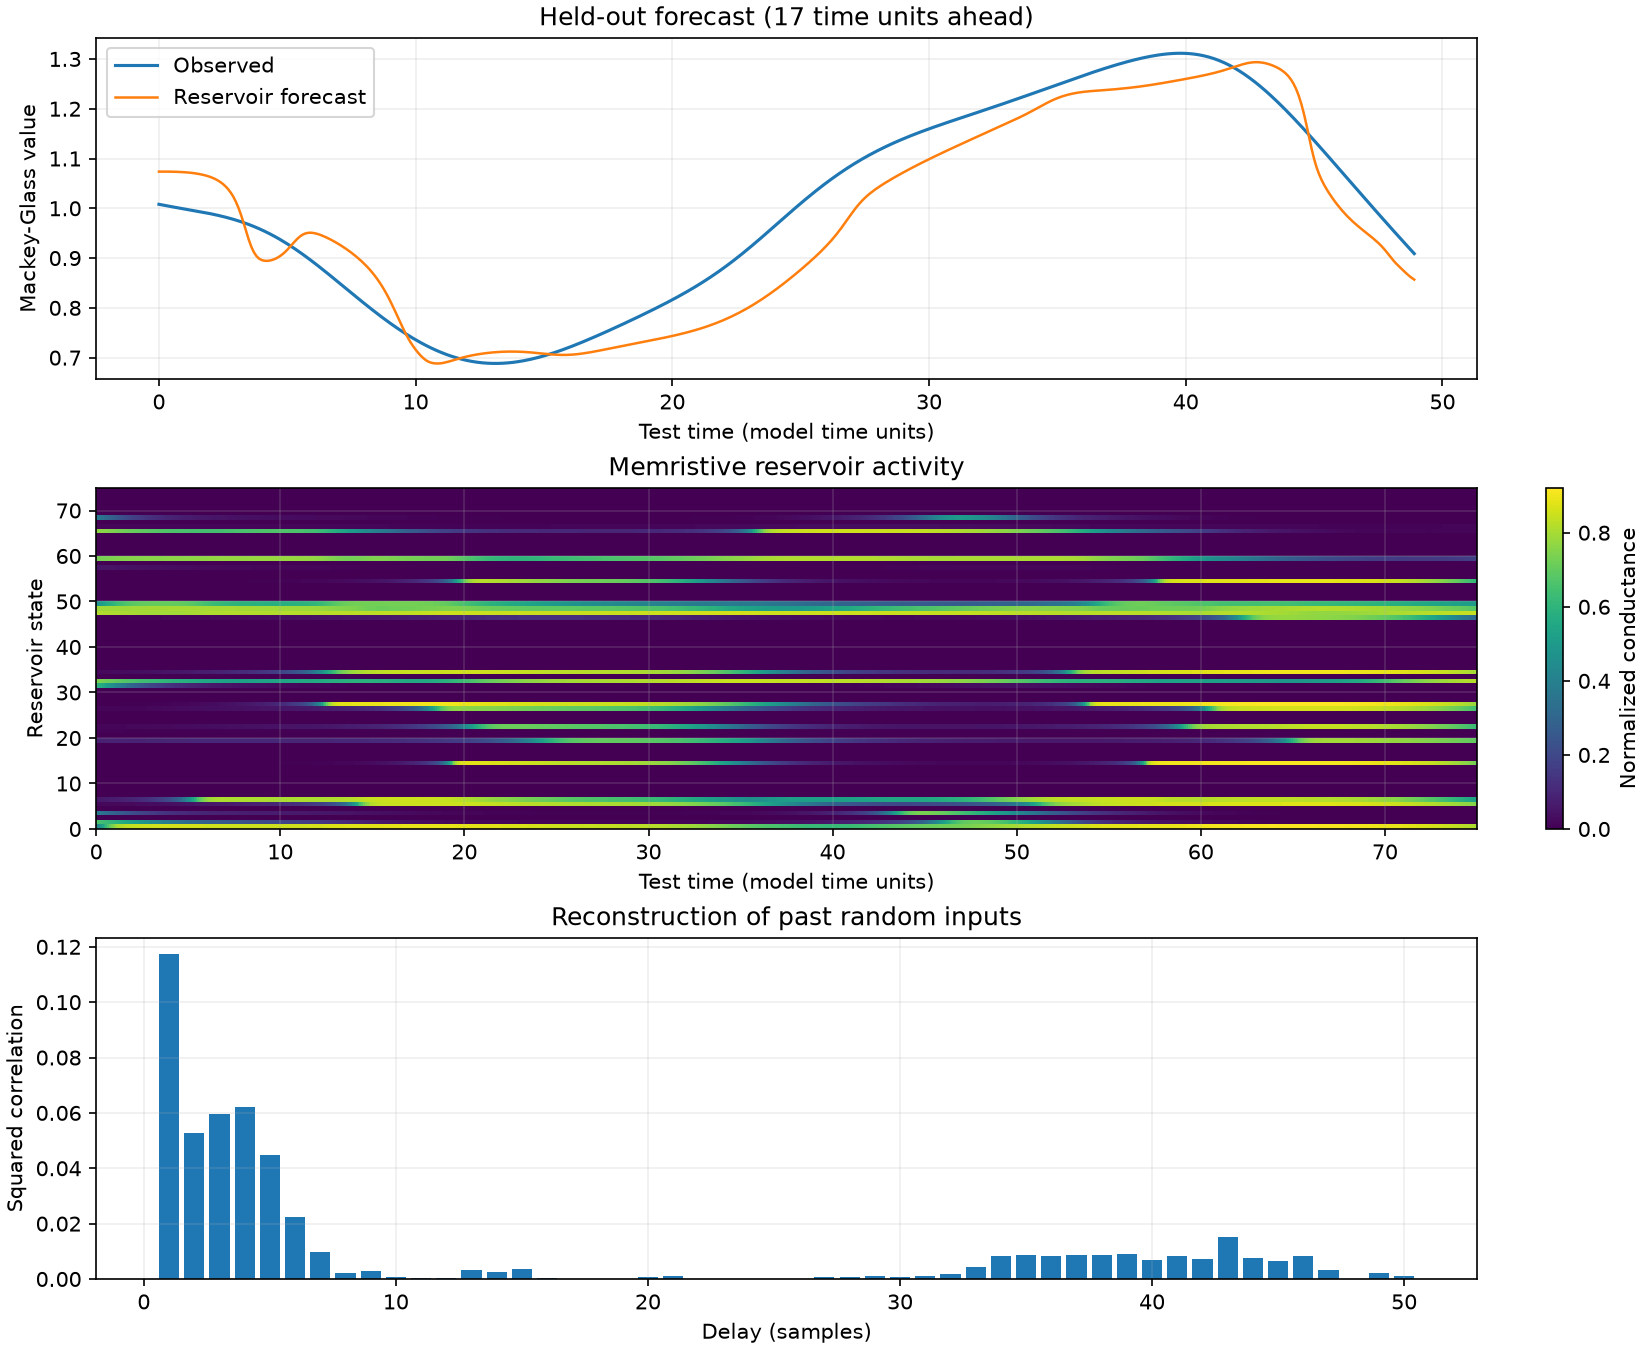
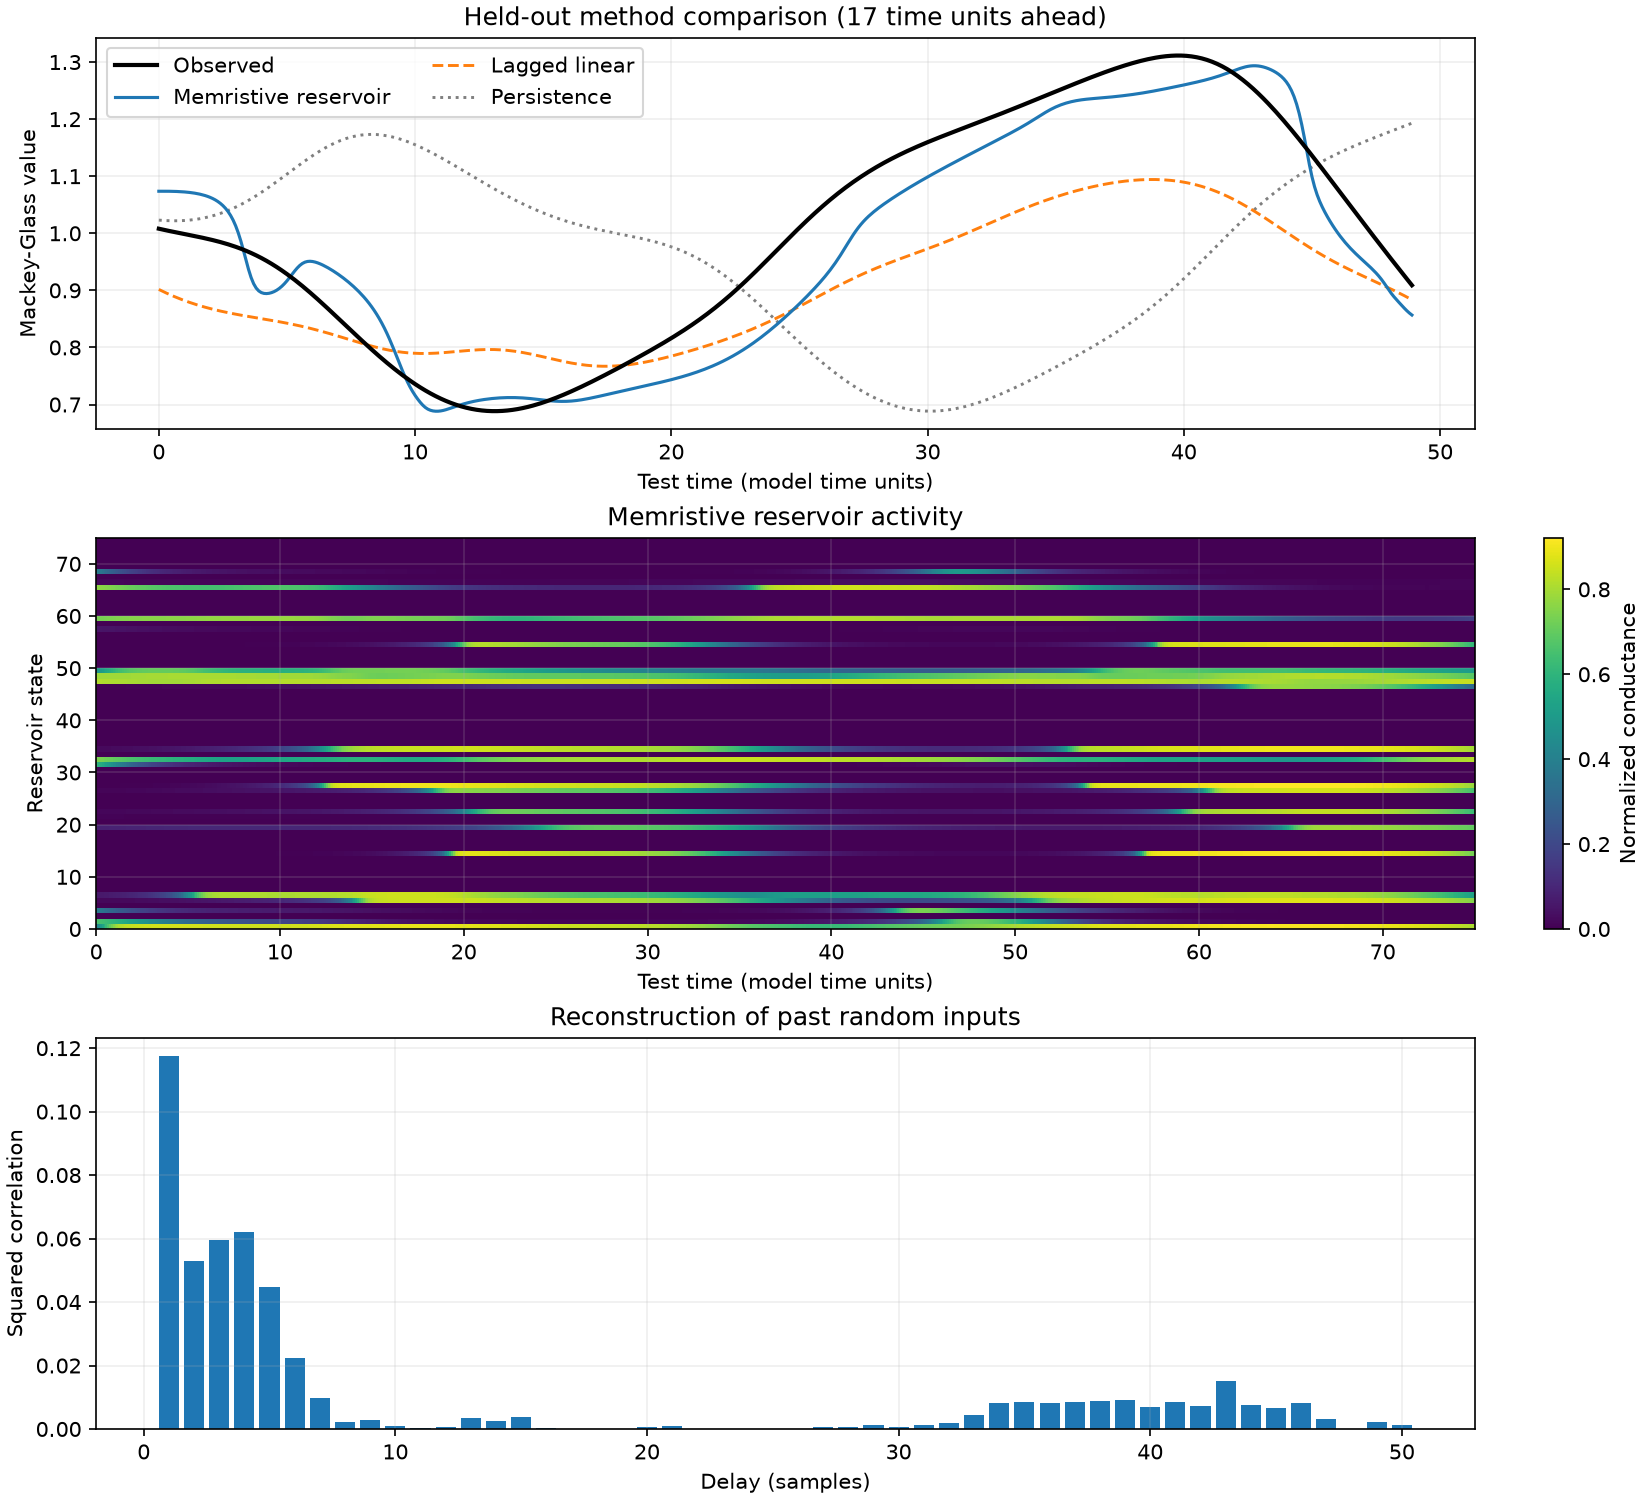
Added all three methods to the result visualisation.

diff --git a/benchmarks/mackey_glass.py b/benchmarks/mackey_glass.py
@@ -122,6 +122,8 @@ Lower MSE, RMSE, and NRMSE are better. NRMSE measures error relative to the natu
 {_metrics_row("Lagged linear baseline", lagged_metrics)}
 {_metrics_row("Persistence baseline", persistence_metrics)}
 
+The forecast panel plots the observed trajectory and all three methods on the same held-out timestamps, making differences in timing, amplitude, and turning points directly comparable.
+
 The reservoir RMSE is `{improvement:.1f}%` lower than persistence at this forecast horizon. This is a comparative benchmark result, not yet a general claim about other trajectories, seeds, substrates, or forecasting horizons.
 
 ## Fading-memory evaluation
@@ -248,17 +250,47 @@ def main() -> None:
     print(report)
 
     time = jnp.arange(original_targets.size) * 0.1
-    figure, axes = plt.subplots(3, 1, figsize=(11, 9), constrained_layout=True)
-    axes[0].plot(time, original_targets, label="Observed", linewidth=1.5)
+    figure, axes = plt.subplots(3, 1, figsize=(11, 10), constrained_layout=True)
     axes[0].plot(
-        time, original_reservoir_prediction, label="Reservoir forecast", linewidth=1.2
+        time,
+        original_targets,
+        color="black",
+        label="Observed",
+        linewidth=2.0,
+        zorder=4,
+    )
+    axes[0].plot(
+        time,
+        original_reservoir_prediction,
+        color="tab:blue",
+        label="Memristive reservoir",
+        linewidth=1.5,
+        zorder=3,
+    )
+    axes[0].plot(
+        time,
+        original_lagged_prediction,
+        color="tab:orange",
+        label="Lagged linear",
+        linewidth=1.4,
+        linestyle="--",
+        zorder=2,
+    )
+    axes[0].plot(
+        time,
+        original_persistence,
+        color="tab:gray",
+        label="Persistence",
+        linewidth=1.4,
+        linestyle=":",
+        zorder=1,
     )
     axes[0].set(
-        title=f"Held-out forecast ({args.horizon * 0.1:g} time units ahead)",
+        title=f"Held-out method comparison ({args.horizon * 0.1:g} time units ahead)",
         xlabel="Test time (model time units)",
         ylabel="Mackey-Glass value",
     )
-    axes[0].legend()
+    axes[0].legend(ncol=2)
     state_image = axes[1].imshow(
         test_states.T,
         aspect="auto",

diff --git a/artifacts/mackey_glass_benchmark.md b/artifacts/mackey_glass_benchmark.md
@@ -30,6 +30,8 @@ Lower MSE, RMSE, and NRMSE are better. NRMSE measures error relative to the natu
 | Lagged linear baseline | 0.019220 | 0.1386 | 0.686 | 0.530 |
 | Persistence baseline | 0.103443 | 0.3216 | 1.590 | -1.529 |
 
+The forecast panel plots the observed trajectory and all three methods on the same held-out timestamps, making differences in timing, amplitude, and turning points directly comparable.
+
 The reservoir RMSE is `80.0%` lower than persistence at this forecast horizon. This is a comparative benchmark result, not yet a general claim about other trajectories, seeds, substrates, or forecasting horizons.
 
 ## Fading-memory evaluation
